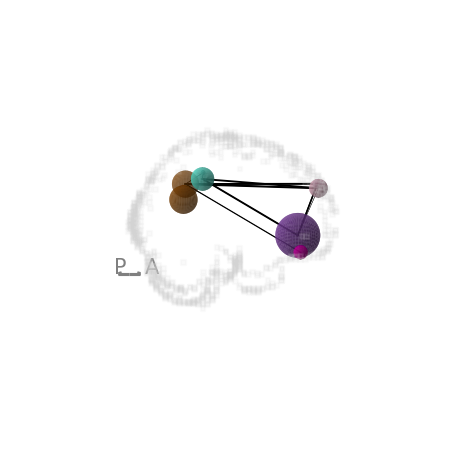
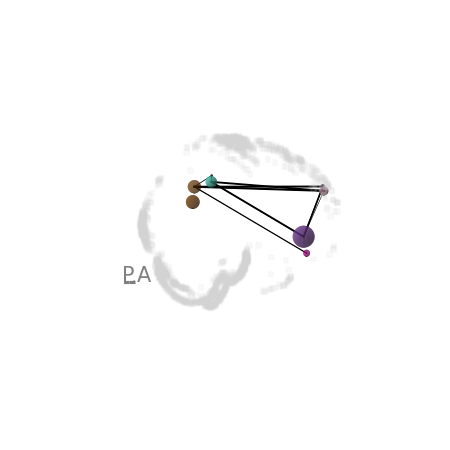
Adding surface templatestyle

diff --git a/examples/example1.py b/examples/example1.py
@@ -12,56 +12,64 @@ nodey = np.array([-60, -60, 40, 40, 56, 56, -44, -44])
 nodez = np.array([30, 30, -16, -16, 35, 35, 44, 44])
 # Some psuedo_centrality measure to demonstrate size
 centrality = np.array([30, 30, 50, 15, 20, 10, 5, 25])
-nodes = pd.DataFrame(data={'x': nodex, 'y': nodey, 'z': nodez, 'centrality': centrality})
+nodes = pd.DataFrame(data={'x': nodex, 'y': nodey,
+                           'z': nodez, 'centrality': centrality})
 
-n = 8 # number of nodes
-m = 12 # number of edges
+n = 8  # number of nodes
+m = 12  # number of edges
 # Random edges connecting the 8 nodes
 ind = np.triu_indices(n, k=1)
-eon = np.random.permutation(len(ind[0])) 
+eon = np.random.permutation(len(ind[0]))
 edges = np.zeros([n, n])
 edges[ind[0][eon[:m]], ind[1][eon[:m]]] = 1
 edges += edges.transpose()
 
-#Generate weighted edges connecting the nodes
+# Generate weighted edges connecting the nodes
 edgesdf = pd.DataFrame()
-edges_list = list(zip(*np.where(edges!=0)))
-edgesdf["i"],edgesdf["j"] = [i[0] for i in edges_list], [i[1] for i in edges_list]
-weights = ['0.608', '0.475', '0.456', '0.578', '0.415', '0.953', '0.204', '0.124', '0.608', '0.394', '0.222', '0.178', '0.815', '0.993', '0.199', '0.104', '0.789', '0.233', '0.763', '0.248', '0.195', '0.899', '0.904', '0.424']
-edgesdf['weight']=weights
+edges_list = list(zip(*np.where(edges != 0)))
+edgesdf["i"], edgesdf["j"] = [i[0]
+                              for i in edges_list], [i[1] for i in edges_list]
+weights = ['0.608', '0.475', '0.456', '0.578', '0.415', '0.953', '0.204', '0.124', '0.608', '0.394', '0.222',
+           '0.178', '0.815', '0.993', '0.199', '0.104', '0.789', '0.233', '0.763', '0.248', '0.195', '0.899', '0.904', '0.424']
+edgesdf['weight'] = weights
 edges = edgesdf
 
-### Plot single view
-nob.plot(template='MNI152NLin2009cAsym', templatestyle='glass',
-                    view='R', 
-                    nodes=nodes, nodesize='centrality',
-                    edges=edges)
+# Plot single view
+nob.plot(template='MNI152NLin2009cAsym',
+         templatestyle='cloudy',
+         view='R',
+         nodes=nodes,
+         nodesize='centrality',
+         edges=edges)
 plt.savefig('./examples/figures/singleview.png', dpi=150)
 
-### Plot different styles
+# Plot different styles
 
-nob.plot(template='MNI152NLin2009cAsym', templatestyle='filled',
-                    view='R', 
-                    nodes=nodes, nodesize='centrality',
-                    edges=edges)
+nob.plot(template='MNI152NLin2009cAsym',
+         templatestyle='filled',
+         view='R',
+         nodes=nodes,
+         nodesize='centrality',
+         edges=edges)
 plt.savefig('./examples/figures/styles1.png', dpi=150)
 
-nob.plot(template='MNI152NLin2009cAsym', templatestyle='glass',
-                    view='R', 
-                    nodes=nodes, nodesize='centrality',
-                    edges=edges)
+nob.plot(template='MNI152NLin2009cAsym', templatestyle='cloudy',
+         view='R',
+         nodes=nodes, nodesize='centrality',
+         edges=edges)
 plt.savefig('./examples/figures/styles2.png', dpi=150)
 
-### Plot sequence
-nob.plot(template='MNI152NLin2009cAsym', templatestyle='glass',
-                    view='RP', 
-                    nodes=nodes, nodesize='centrality',
-                    edges=edges, frames=3)
+# Plot sequence
+nob.plot(template='MNI152NLin2009cAsym',
+         templatestyle='surface',
+         view='RP',
+         nodes=nodes, nodesize='centrality',
+         edges=edges, frames=3)
 plt.savefig('./examples/figures/seq1.png')
 
-nob.plot(template='MNI152NLin2009cAsym', templatestyle='filled',
-                    view='RP', 
-                    nodes=nodes, nodesize='centrality',
-                    edges=edges, frames=3)
+nob.plot(template='MNI152NLin2009cAsym',
+         templatestyle='cloudy',
+         view='RP',
+         nodes=nodes, nodesize='centrality',
+         edges=edges, frames=3)
 plt.savefig('./examples/figures/seq2.png')
-

diff --git a/netonbrain/plotting/plot_templates.py b/netonbrain/plotting/plot_templates.py
@@ -5,8 +5,11 @@ import templateflow.api as tf
 from scipy.ndimage import rotate, sobel
 from scipy.ndimage.interpolation import spline_filter1d
 from nibabel.processing import resample_to_output
+from mpl_toolkits.mplot3d.art3d import Poly3DCollection
+from skimage import measure
 
-def _plot_template_style_glass(ax, data, azim, elev):
+
+def _plot_template_style_cloudy(ax, data, azim, elev, edgethreshold):
     # If the viewpoint is not at 0,0, rotate the image so the edge thresholding occurs at approriate angle
     if azim != 0:
         data = rotate(data, -azim, axes=[0, 1], reshape=False)
@@ -26,20 +29,36 @@ def _plot_template_style_glass(ax, data, azim, elev):
     if azim != 0:
         sdata = rotate(sdata, azim, axes=[0, 1], reshape=False)
     # Binarize sobel filter in relation to threshold
-    bdata = np.abs(sdata) > np.max(np.abs(sdata)) * 0.75
+    bdata = np.abs(sdata) > np.max(np.abs(sdata)) * edgethreshold
     # Plot resulting edges as a scatter
-    x, y, z = np.where(bdata==1)
+    x, y, z = np.where(bdata == 1)
     # ax.voxels(bdata, alpha=0.2, edgecolor=None, facecolor='lightgray')
-    ax.scatter(x,y,z, alpha=0.1, s=5, facecolor='lightgray', edgecolors=None, marker='s')
+    ax.scatter(x, y, z, alpha=0.1, s=5, facecolor='lightgray',
+               edgecolors=None, marker='s')
+
 
 def _plot_template_style_filled(ax, data, alpha, templatecolor):
-    ax.voxels(data, alpha=alpha, zorder=-100, facecolor=templatecolor, edgecolor=None, shade=False)
+    ax.voxels(data, alpha=alpha, zorder=-100,
+              facecolor=templatecolor, edgecolor=None, shade=False)
 
 
-def _plot_template(ax, style='filled', template='MNI152NLin2009cAsym', templatecolor='lightgray', alpha=0.2, voxsize=5, azim=0, elev=0):
+def _plot_template_style_surface(ax, data, alpha, templatecolor, surface_resolution=2):
+    verts, faces, _, _ = measure.marching_cubes(
+        data, step_size=surface_resolution)
+    mesh = Poly3DCollection(verts[faces])
+    mesh.set_facecolor(templatecolor)
+    mesh.set_alpha(alpha)
+    ax.add_collection3d(mesh)
+    ax.set_xlim(0, data.shape[0])
+    ax.set_ylim(0, data.shape[1])
+    ax.set_zlim(0, data.shape[2])
+
+
+def _plot_template(ax, style='filled', template='MNI152NLin2009cAsym', templatecolor='lightgray', alpha=0.2, voxsize=2, azim=0, elev=0, surface_resolution=2, edgethreshold=0.8):
     if isinstance(template, str):
         if not os.path.exists(template):
-            template = tf.get(template=template, resolution=1, desc='brain', suffix='T1w', extension='.nii.gz')
+            template = tf.get(template=template, resolution=1,
+                              desc='brain', suffix='T1w', extension='.nii.gz')
         img = nib.load(template)
     elif isinstance(template, (nib.Nifti1Image, nib.Nifti2Image)):
         img = template
@@ -47,7 +66,9 @@ def _plot_template(ax, style='filled', template='MNI152NLin2009cAsym', templatec
     data = img.get_fdata()
     if style == 'filled':
         _plot_template_style_filled(ax, data, alpha, templatecolor)
-    elif style == 'glass':
-        _plot_template_style_glass(ax, data, azim, elev)
+    elif style == 'cloudy':
+        _plot_template_style_cloudy(ax, data, azim, elev, edgethreshold)
+    elif style == 'surface':
+        _plot_template_style_surface(
+            ax, data, alpha, templatecolor, surface_resolution)
     return img.affine
-

diff --git a/netonbrain/plot.py b/netonbrain/plot.py
@@ -1,11 +1,12 @@
 import matplotlib.pyplot as plt
-from .plotting import _plot_template, _plot_template_style_filled, _plot_template_style_glass,\
+import inspect
+from .plotting import _plot_template, _plot_template_style_filled, _plot_template_style_cloudy,\
     _plot_edges, _plot_nodes, _plot_spheres, _set_axes_equal, _set_axes_radius, _get_view,\
-    _scale_nodes, _add_axis_arrows
+    _scale_nodes, _add_axis_arrows, _plot_template_style_surface
 
 
 def plot(nodes, fig=None, ax=None, view='L', frames=1, edges=None, template=None, templatestyle='filled', templatealpha=0.2,
-         templatevoxsize=4, templatecolor='lightgray', templateedgedetection=0.8, arrowaxis='auto', arrowlength=5,
+         templatevoxsize=2, templatecolor='lightgray', surface_resolution=2, templateedgethreshold=0.8, arrowaxis='auto', arrowlength=5,
          arroworigin=[5, 5, 5], edgecolor='k', edgewidth='auto', nodesize=50, nodecolor='salmon', nodespheres=True):
     # sourcery skip: merge-nested-ifs
     """
@@ -28,15 +29,19 @@ def plot(nodes, fig=None, ax=None, view='L', frames=1, edges=None, template=None
     template : str or nibabel nifti
         Path to nifti image, or templateflow template name (see templateflow.org) in order to automatically download T1 template.
     templatestyle : str
-        can be filled (a single transparant color) or glass (edges marked)
+        can be 'surface': (a surface is rendered from the template),
+               'filled': (a single transparant color)
+               'cloudy': cloudy (cloudy scatter edges outline the figure)
+    surface_resolution : int
+        If templatestyle=='surface' controls the size of the triangles used in the surface reconstruction (default: 2).
     templatecolor : str
-        If templatestyle=='filled', the color of template voxels
+        If templatestyle=='surface' or 'filled', the color of template voxels
     templateedgedetection : float
-        If templatestyle=='glass', can tweak the edges of
+        If templatestyle=='cloudy', can tweak the edges detection threshold.
     templatealpha : float
         Opacity of template voxels.
     templatevoxelsize : int
-        Resize voxels this size. Larger voxels = quicker.
+        Resize voxels this size. Larger voxels = quicker. Default = 2
     arrowaxis : list or str
         Adds axis arrows onto plot. Alternatives are: LR, AP, DV, 'all'
     arrowlength : int, float
@@ -79,7 +84,10 @@ def plot(nodes, fig=None, ax=None, view='L', frames=1, edges=None, template=None
         affine = None
         if template is not None:
             affine = _plot_template(ax, templatestyle, template, templatecolor=templatecolor,
-                                    alpha=templatealpha, voxsize=templatevoxsize, azim=azim[fi], elev=elev[fi])
+                                    alpha=templatealpha, voxsize=templatevoxsize,
+                                    surface_resolution=surface_resolution,
+                                    edgethreshold=templateedgethreshold,
+                                    azim=azim[fi], elev=elev[fi])
         # Template voxels will have origin at 0,0,0
         # It is easier to scale the nodes from the image affine
         # Then to rescale the ax.voxels function

diff --git a/netonbrain/plotting/__init__.py b/netonbrain/plotting/__init__.py
@@ -2,11 +2,13 @@ from .plot_utils import _set_axes_equal, _set_axes_radius, _get_view
 from .plot_edges import _plot_edges
 from .plot_nodes import _scale_nodes, _plot_nodes
 from .plot_spheres import _plot_spheres
-from .plot_templates import _plot_template, _plot_template_style_filled, _plot_template_style_glass
+from .plot_templates import _plot_template, _plot_template_style_filled, \
+    _plot_template_style_cloudy, _plot_template_style_surface
 from .plot_dimarrows import _add_axis_arrows
 
 __all__ = ['_set_axes_equal', '_set_axes_radius', '_get_view',
-            '_plot_template', '_plot_template_style_filled', '_plot_template_style_glass',
-            '_scale_nodes', '_plot_nodes', '_plot_spheres',
-            '_plot_edges',
-            '_add_axis_arrows']
+           '_plot_template', '_plot_template_style_filled',
+           '_plot_template_style_cloudy',
+           '_scale_nodes', '_plot_nodes', '_plot_spheres',
+           '_plot_edges', '_plot_template_style_surface',
+           '_add_axis_arrows']
